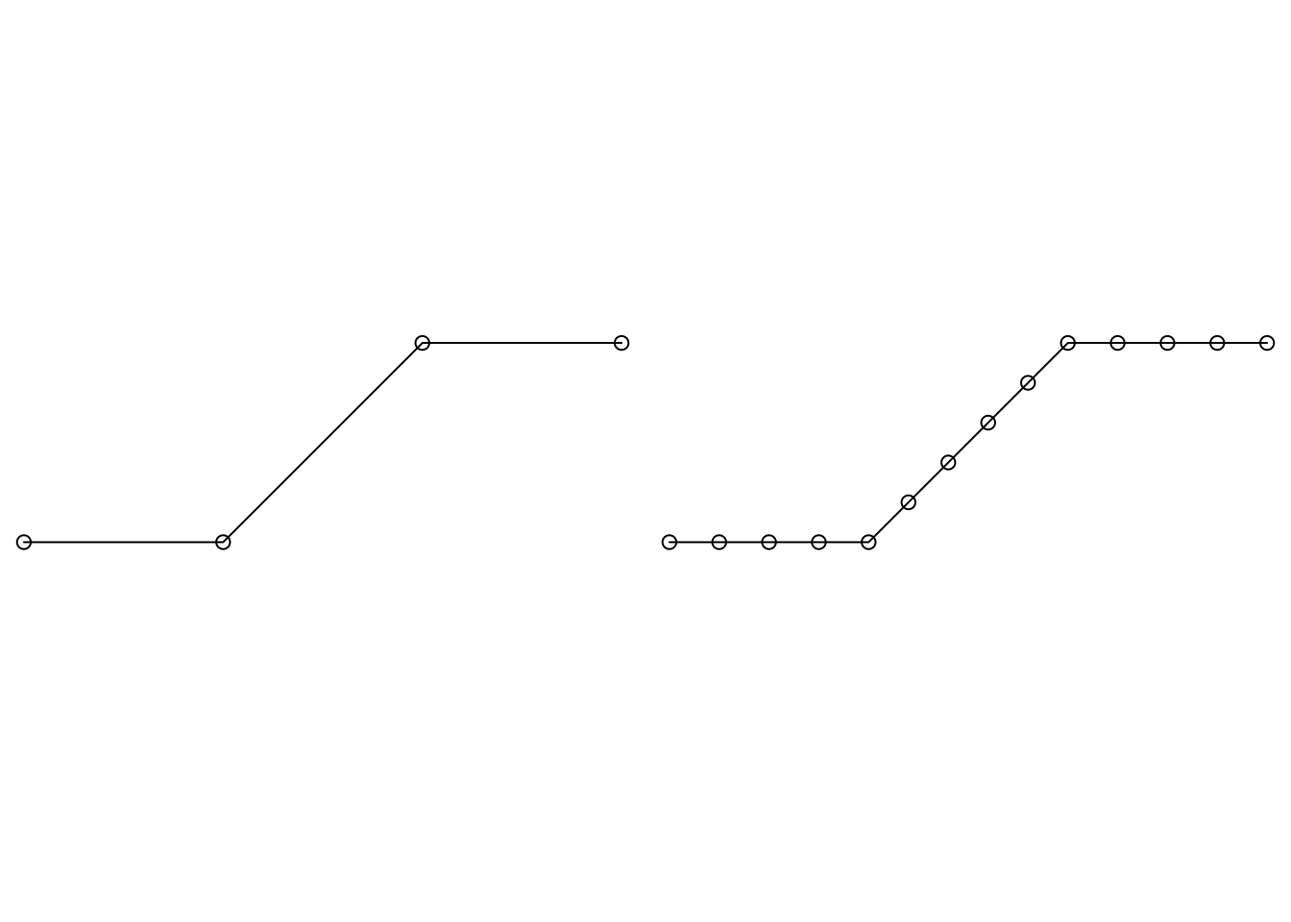
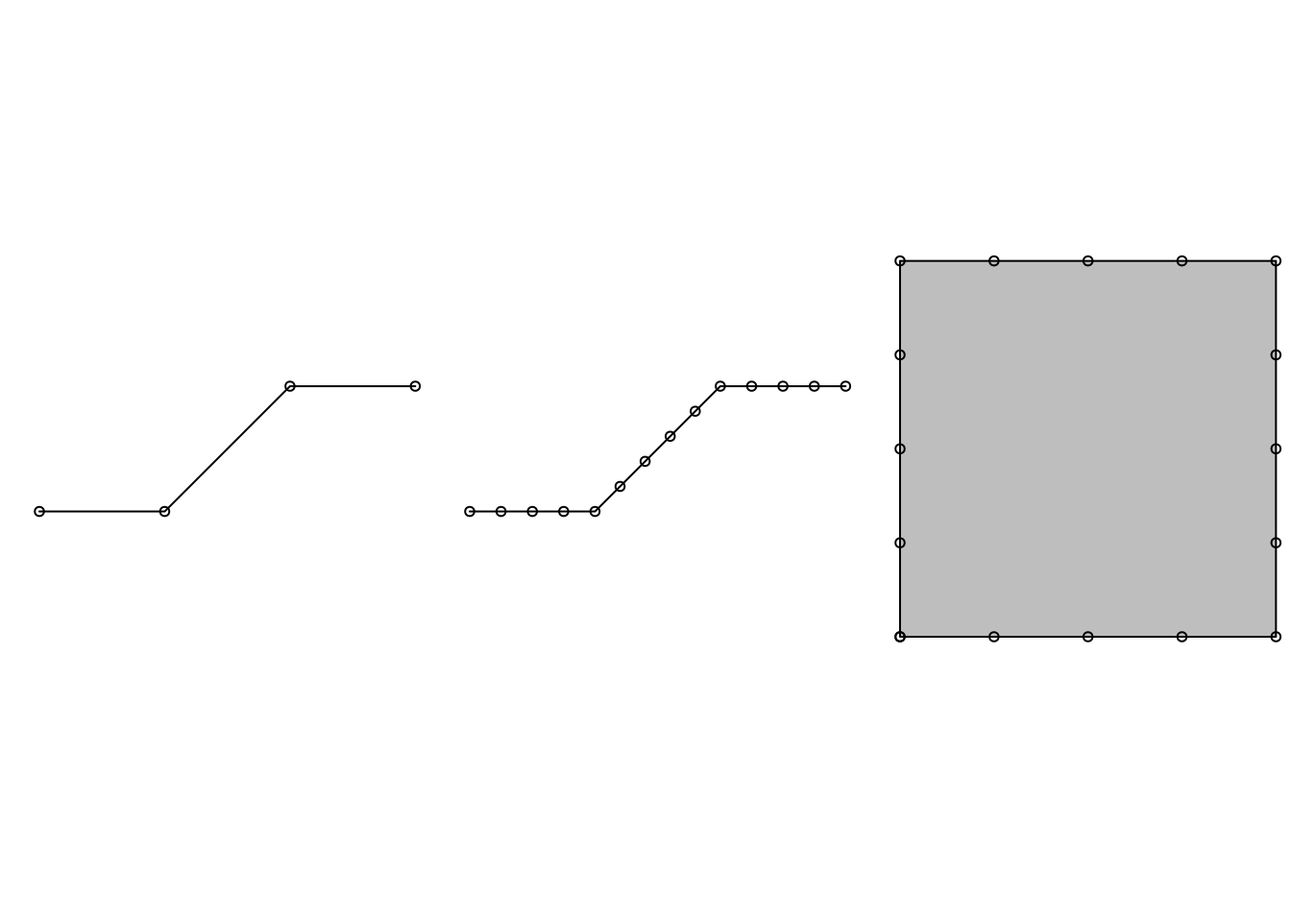
update st_segmentize in sf3

diff --git a/docs/reference/dplyr.html b/docs/reference/dplyr.html
@@ -143,16 +143,20 @@
     
 
     <h2 class="hasAnchor" id="examples"><a class="anchor" href="#examples"></a>Examples</h2>
-    <pre class="examples"><div class='input'><span class='fu'>library</span>(<span class='no'>dplyr</span>)
-<span class='no'>nc</span> <span class='kw'>=</span> <span class='fu'><a href='st_read.html'>st_read</a></span>(<span class='fu'>system.file</span>(<span class='st'>"shape/nc.shp"</span>, <span class='kw'>package</span><span class='kw'>=</span><span class='st'>"sf"</span>), <span class='kw'>crs</span> <span class='kw'>=</span> <span class='fl'>4267</span>)</div><div class='output co'>#&gt; Reading layer `nc&#39; from data source `/home/edzer/git/sfr/inst/shape/nc.shp&#39; using driver `ESRI Shapefile&#39;
+    <pre class="examples"><div class='input'><span class='fu'>library</span>(<span class='no'>dplyr</span>)</div><div class='output co'>#&gt; <span class='message'></span>
+#&gt; <span class='message'>Attaching package: ‘dplyr’</span></div><div class='output co'>#&gt; <span class='message'>The following objects are masked from ‘package:stats’:</span>
+#&gt; <span class='message'></span>
+#&gt; <span class='message'>    filter, lag</span></div><div class='output co'>#&gt; <span class='message'>The following objects are masked from ‘package:base’:</span>
+#&gt; <span class='message'></span>
+#&gt; <span class='message'>    intersect, setdiff, setequal, union</span></div><div class='input'><span class='no'>nc</span> <span class='kw'>=</span> <span class='fu'><a href='st_read.html'>st_read</a></span>(<span class='fu'>system.file</span>(<span class='st'>"shape/nc.shp"</span>, <span class='kw'>package</span><span class='kw'>=</span><span class='st'>"sf"</span>))</div><div class='output co'>#&gt; Reading layer `nc&#39; from data source `/home/edzer/git/sfr/inst/shape/nc.shp&#39; using driver `ESRI Shapefile&#39;
 #&gt; converted into: MULTIPOLYGON
 #&gt; Simple feature collection with 100 features and 14 fields
 #&gt; geometry type:  MULTIPOLYGON
 #&gt; dimension:      XY
 #&gt; bbox:           xmin: -84.32385 ymin: 33.88199 xmax: -75.45698 ymax: 36.58965
 #&gt; epsg (SRID):    4267
-#&gt; proj4string:    +proj=longlat +datum=NAD27 +no_defs</div><div class='input'><span class='no'>nc</span> <span class='kw'>%&gt;%</span> <span class='fu'>filter</span>(<span class='no'>AREA</span> <span class='kw'>&gt;</span> <span class='fl'>.1</span>) <span class='kw'>%&gt;%</span> <span class='fu'><a href='plot.html'>plot</a></span>()</div><img src='dplyr-4.png' alt='' width='540' height='400' /><div class='input'><span class='co'># plot 10 smallest counties in grey:</span>
-<span class='no'>nc</span> <span class='kw'>%&gt;%</span> <span class='fu'><a href='plot.html'>plot</a></span>()</div><div class='input'><span class='no'>nc</span> <span class='kw'>%&gt;%</span> <span class='fu'>arrange</span>(<span class='no'>AREA</span>) <span class='kw'>%&gt;%</span> <span class='fu'>slice</span>(<span class='fl'>1</span>:<span class='fl'>10</span>) <span class='kw'>%&gt;%</span> <span class='fu'><a href='plot.html'>plot</a></span>(<span class='kw'>add</span> <span class='kw'>=</span> <span class='fl'>TRUE</span>, <span class='kw'>col</span> <span class='kw'>=</span> <span class='st'>'grey'</span>)</div><div class='input'><span class='fu'>title</span>(<span class='st'>"the ten counties with smallest area"</span>)</div><img src='dplyr-8.png' alt='' width='540' height='400' /><div class='input'><span class='no'>nc</span>[<span class='fu'>c</span>(<span class='fl'>1</span>:<span class='fl'>100</span>,<span class='fl'>1</span>:<span class='fl'>10</span>),] <span class='kw'>%&gt;%</span> <span class='fu'>distinct</span>() <span class='kw'>%&gt;%</span> <span class='fu'>nrow</span>()</div><div class='output co'>#&gt; [1] 100</div><div class='input'><span class='no'>nc</span>$<span class='no'>area_cl</span> <span class='kw'>=</span> <span class='fu'>cut</span>(<span class='no'>nc</span>$<span class='no'>AREA</span>, <span class='fu'>c</span>(<span class='fl'>0</span>, <span class='fl'>.1</span>, <span class='fl'>.12</span>, <span class='fl'>.15</span>, <span class='fl'>.25</span>))
+#&gt; proj4string:    +proj=longlat +datum=NAD27 +no_defs</div><div class='input'><span class='no'>nc</span> <span class='kw'>%&gt;%</span> <span class='fu'>filter</span>(<span class='no'>AREA</span> <span class='kw'>&gt;</span> <span class='fl'>.1</span>) <span class='kw'>%&gt;%</span> <span class='fu'><a href='plot.html'>plot</a></span>()</div><img src='dplyr-8.png' alt='' width='540' height='400' /><div class='input'><span class='co'># plot 10 smallest counties in grey:</span>
+<span class='no'>nc</span> <span class='kw'>%&gt;%</span> <span class='fu'><a href='plot.html'>plot</a></span>()</div><div class='input'><span class='no'>nc</span> <span class='kw'>%&gt;%</span> <span class='fu'>arrange</span>(<span class='no'>AREA</span>) <span class='kw'>%&gt;%</span> <span class='fu'>slice</span>(<span class='fl'>1</span>:<span class='fl'>10</span>) <span class='kw'>%&gt;%</span> <span class='fu'><a href='plot.html'>plot</a></span>(<span class='kw'>add</span> <span class='kw'>=</span> <span class='fl'>TRUE</span>, <span class='kw'>col</span> <span class='kw'>=</span> <span class='st'>'grey'</span>)</div><div class='input'><span class='fu'>title</span>(<span class='st'>"the ten counties with smallest area"</span>)</div><img src='dplyr-12.png' alt='' width='540' height='400' /><div class='input'><span class='no'>nc</span>[<span class='fu'>c</span>(<span class='fl'>1</span>:<span class='fl'>100</span>,<span class='fl'>1</span>:<span class='fl'>10</span>),] <span class='kw'>%&gt;%</span> <span class='fu'>distinct</span>() <span class='kw'>%&gt;%</span> <span class='fu'>nrow</span>()</div><div class='output co'>#&gt; [1] 100</div><div class='input'><span class='no'>nc</span>$<span class='no'>area_cl</span> <span class='kw'>=</span> <span class='fu'>cut</span>(<span class='no'>nc</span>$<span class='no'>AREA</span>, <span class='fu'>c</span>(<span class='fl'>0</span>, <span class='fl'>.1</span>, <span class='fl'>.12</span>, <span class='fl'>.15</span>, <span class='fl'>.25</span>))
 <span class='no'>nc</span> <span class='kw'>%&gt;%</span> <span class='fu'>group_by</span>(<span class='no'>area_cl</span>) <span class='kw'>%&gt;%</span> <span class='fu'>class</span>()</div><div class='output co'>#&gt; [1] &quot;sf&quot;         &quot;grouped_df&quot; &quot;tbl_df&quot;     &quot;tbl&quot;        &quot;data.frame&quot;</div><div class='input'><span class='no'>nc2</span> <span class='kw'>&lt;-</span> <span class='no'>nc</span> <span class='kw'>%&gt;%</span> <span class='fu'>mutate</span>(<span class='kw'>area10</span> <span class='kw'>=</span> <span class='no'>AREA</span>/<span class='fl'>10</span>)
 <span class='no'>nc</span> <span class='kw'>%&gt;%</span> <span class='fu'>transmute</span>(<span class='kw'>AREA</span> <span class='kw'>=</span> <span class='no'>AREA</span>/<span class='fl'>10</span>, <span class='kw'>geometry</span> <span class='kw'>=</span> <span class='no'>geometry</span>) <span class='kw'>%&gt;%</span> <span class='fu'>class</span>()</div><div class='output co'>#&gt; [1] &quot;sf&quot;         &quot;data.frame&quot;</div><div class='input'><span class='no'>nc</span> <span class='kw'>%&gt;%</span> <span class='fu'>transmute</span>(<span class='kw'>AREA</span> <span class='kw'>=</span> <span class='no'>AREA</span>/<span class='fl'>10</span>) <span class='kw'>%&gt;%</span> <span class='fu'>class</span>()</div><div class='output co'>#&gt; [1] &quot;data.frame&quot;</div><div class='input'><span class='no'>nc</span> <span class='kw'>%&gt;%</span> <span class='fu'>select</span>(<span class='no'>SID74</span>, <span class='no'>SID79</span>) <span class='kw'>%&gt;%</span> <span class='fu'>names</span>()</div><div class='output co'>#&gt; [1] &quot;SID74&quot; &quot;SID79&quot;</div><div class='input'><span class='no'>nc</span> <span class='kw'>%&gt;%</span> <span class='fu'>select</span>(<span class='no'>SID74</span>, <span class='no'>SID79</span>, <span class='no'>geometry</span>) <span class='kw'>%&gt;%</span> <span class='fu'>names</span>()</div><div class='output co'>#&gt; [1] &quot;SID74&quot;    &quot;SID79&quot;    &quot;geometry&quot;</div><div class='input'><span class='no'>nc</span> <span class='kw'>%&gt;%</span> <span class='fu'>select</span>(<span class='no'>SID74</span>, <span class='no'>SID79</span>) <span class='kw'>%&gt;%</span> <span class='fu'>class</span>()</div><div class='output co'>#&gt; [1] &quot;data.frame&quot;</div><div class='input'><span class='no'>nc</span> <span class='kw'>%&gt;%</span> <span class='fu'>select</span>(<span class='no'>SID74</span>, <span class='no'>SID79</span>, <span class='no'>geometry</span>) <span class='kw'>%&gt;%</span> <span class='fu'>class</span>()</div><div class='output co'>#&gt; [1] &quot;sf&quot;         &quot;data.frame&quot;</div><div class='input'><span class='no'>nc2</span> <span class='kw'>&lt;-</span> <span class='no'>nc</span> <span class='kw'>%&gt;%</span> <span class='fu'>rename</span>(<span class='kw'>area</span> <span class='kw'>=</span> <span class='no'>AREA</span>)
 <span class='no'>nc</span> <span class='kw'>%&gt;%</span> <span class='fu'>slice</span>(<span class='fl'>1</span>:<span class='fl'>2</span>)</div><div class='output co'>#&gt; Simple feature collection with 2 features and 15 fields
@@ -188,7 +192,7 @@
 #&gt; 1     (0,0.1] 0.07602857 MULTIPOLYGON(((-77.96073150...
 #&gt; 2  (0.1,0.12] 0.11206667 MULTIPOLYGON(((-84.29103851...
 #&gt; 3 (0.12,0.15] 0.13422727 MULTIPOLYGON(((-76.54427337...
-#&gt; 4 (0.15,0.25] 0.19039286 MULTIPOLYGON(((-76.64704895...</div><div class='input'><span class='no'>nc.g</span> <span class='kw'>%&gt;%</span> <span class='fu'>summarize</span>(<span class='fu'>mean</span>(<span class='no'>AREA</span>)) <span class='kw'>%&gt;%</span> <span class='fu'><a href='plot.html'>plot</a></span>(<span class='kw'>col</span> <span class='kw'>=</span> <span class='fu'>grey</span>(<span class='fl'>3</span>:<span class='fl'>6</span> / <span class='fl'>7</span>))</div><img src='dplyr-32.png' alt='' width='540' height='400' /><div class='input'><span class='fu'>library</span>(<span class='no'>tidyr</span>)
+#&gt; 4 (0.15,0.25] 0.19039286 MULTIPOLYGON(((-76.64704895...</div><div class='input'><span class='no'>nc.g</span> <span class='kw'>%&gt;%</span> <span class='fu'>summarize</span>(<span class='fu'>mean</span>(<span class='no'>AREA</span>)) <span class='kw'>%&gt;%</span> <span class='fu'><a href='plot.html'>plot</a></span>(<span class='kw'>col</span> <span class='kw'>=</span> <span class='fu'>grey</span>(<span class='fl'>3</span>:<span class='fl'>6</span> / <span class='fl'>7</span>))</div><img src='dplyr-36.png' alt='' width='540' height='400' /><div class='input'><span class='fu'>library</span>(<span class='no'>tidyr</span>)
 <span class='no'>nc</span> <span class='kw'>%&gt;%</span> <span class='fu'>select</span>(<span class='no'>SID74</span>, <span class='no'>SID79</span>, <span class='no'>geometry</span>) <span class='kw'>%&gt;%</span> <span class='fu'>gather</span>(<span class='no'>VAR</span>, <span class='no'>SID</span>, -<span class='no'>geometry</span>) <span class='kw'>%&gt;%</span> <span class='fu'>summary</span>()</div><div class='output co'>#&gt;      VAR                 SID                  geometry  
 #&gt;  Length:200         Min.   : 0.000   MULTIPOLYGON :200  
 #&gt;  Class :character   1st Qu.: 2.000   epsg:4267    :  0  

diff --git a/docs/reference/st_read.html b/docs/reference/st_read.html
@@ -163,71 +163,67 @@
 #&gt;  3rd Qu.: 3.850   3rd Qu.: 49.50   3rd Qu.:207.0   3rd Qu.: 674.5  
 #&gt;  Max.   :18.100   Max.   :128.00   Max.   :654.0   Max.   :1839.0  
 #&gt;                                                                    
-#&gt;       elev             dist               om            ffreq          
-#&gt;  Min.   : 5.180   Min.   :0.00000   Min.   : 1.000   Length:155        
-#&gt;  1st Qu.: 7.546   1st Qu.:0.07569   1st Qu.: 5.300   Class :character  
-#&gt;  Median : 8.180   Median :0.21184   Median : 6.900   Mode  :character  
-#&gt;  Mean   : 8.165   Mean   :0.24002   Mean   : 7.478                     
-#&gt;  3rd Qu.: 8.955   3rd Qu.:0.36407   3rd Qu.: 9.000                     
-#&gt;  Max.   :10.520   Max.   :0.88039   Max.   :17.000                     
-#&gt;                                     NA&#39;s   :2                          
-#&gt;      soil               lime             landuse              dist.m      
-#&gt;  Length:155         Length:155         Length:155         Min.   :  10.0  
-#&gt;  Class :character   Class :character   Class :character   1st Qu.:  80.0  
-#&gt;  Mode  :character   Mode  :character   Mode  :character   Median : 270.0  
-#&gt;                                                           Mean   : 290.3  
-#&gt;                                                           3rd Qu.: 450.0  
-#&gt;                                                           Max.   :1000.0  
-#&gt;                                                                           
-#&gt;         wkb_geometry
-#&gt;  POINT        :155  
-#&gt;  epsg:NA      :  0  
-#&gt;  +proj=ster...:  0  
-#&gt;                     
-#&gt;                     
-#&gt;                     
-#&gt;                     </div><div class='input'><span class='co'># nc = st_read(system.file("gpkg/nc.gpkg", package="sf"), "nc.gpkg", crs = 4267)</span>
-<span class='no'>nc</span> <span class='kw'>=</span> <span class='fu'>st_read</span>(<span class='fu'>system.file</span>(<span class='st'>"shape/nc.shp"</span>, <span class='kw'>package</span><span class='kw'>=</span><span class='st'>"sf"</span>), <span class='st'>"nc"</span>, <span class='kw'>crs</span> <span class='kw'>=</span> <span class='fl'>4267</span>)</div><div class='output co'>#&gt; Reading layer `nc&#39; from data source `/home/edzer/git/sfr/inst/shape/nc.shp&#39; using driver `ESRI Shapefile&#39;
+#&gt;       elev             dist               om         ffreq  soil   lime   
+#&gt;  Min.   : 5.180   Min.   :0.00000   Min.   : 1.000   1:84   1:97   0:111  
+#&gt;  1st Qu.: 7.546   1st Qu.:0.07569   1st Qu.: 5.300   2:48   2:46   1: 44  
+#&gt;  Median : 8.180   Median :0.21184   Median : 6.900   3:23   3:12          
+#&gt;  Mean   : 8.165   Mean   :0.24002   Mean   : 7.478                        
+#&gt;  3rd Qu.: 8.955   3rd Qu.:0.36407   3rd Qu.: 9.000                        
+#&gt;  Max.   :10.520   Max.   :0.88039   Max.   :17.000                        
+#&gt;                                     NA&#39;s   :2                             
+#&gt;     landuse       dist.m              wkb_geometry
+#&gt;  W      :50   Min.   :  10.0   POINT        :155  
+#&gt;  Ah     :39   1st Qu.:  80.0   epsg:NA      :  0  
+#&gt;  Am     :22   Median : 270.0   +proj=ster...:  0  
+#&gt;  Fw     :10   Mean   : 290.3                      
+#&gt;  Ab     : 8   3rd Qu.: 450.0                      
+#&gt;  Bw     : 6   Max.   :1000.0                      
+#&gt;  (Other):20                                       </div><div class='input'><span class='co'># nc = st_read(system.file("gpkg/nc.gpkg", package="sf"))</span>
+<span class='no'>nc</span> <span class='kw'>=</span> <span class='fu'>st_read</span>(<span class='fu'>system.file</span>(<span class='st'>"shape/nc.shp"</span>, <span class='kw'>package</span><span class='kw'>=</span><span class='st'>"sf"</span>))</div><div class='output co'>#&gt; Reading layer `nc&#39; from data source `/home/edzer/git/sfr/inst/shape/nc.shp&#39; using driver `ESRI Shapefile&#39;
 #&gt; converted into: MULTIPOLYGON
 #&gt; Simple feature collection with 100 features and 14 fields
 #&gt; geometry type:  MULTIPOLYGON
 #&gt; dimension:      XY
 #&gt; bbox:           xmin: -84.32385 ymin: 33.88199 xmax: -75.45698 ymax: 36.58965
 #&gt; epsg (SRID):    4267
-#&gt; proj4string:    +proj=longlat +datum=NAD27 +no_defs</div><div class='input'><span class='fu'>summary</span>(<span class='no'>nc</span>)</div><div class='output co'>#&gt;       AREA          PERIMETER         CNTY_         CNTY_ID    
-#&gt;  Min.   :0.0420   Min.   :0.999   Min.   :1825   Min.   :1825  
-#&gt;  1st Qu.:0.0910   1st Qu.:1.324   1st Qu.:1902   1st Qu.:1902  
-#&gt;  Median :0.1205   Median :1.609   Median :1982   Median :1982  
-#&gt;  Mean   :0.1263   Mean   :1.673   Mean   :1986   Mean   :1986  
-#&gt;  3rd Qu.:0.1542   3rd Qu.:1.859   3rd Qu.:2067   3rd Qu.:2067  
-#&gt;  Max.   :0.2410   Max.   :3.640   Max.   :2241   Max.   :2241  
-#&gt;      NAME               FIPS               FIPSNO         CRESS_ID     
-#&gt;  Length:100         Length:100         Min.   :37001   Min.   :  1.00  
-#&gt;  Class :character   Class :character   1st Qu.:37050   1st Qu.: 25.75  
-#&gt;  Mode  :character   Mode  :character   Median :37100   Median : 50.50  
-#&gt;                                        Mean   :37100   Mean   : 50.50  
-#&gt;                                        3rd Qu.:37150   3rd Qu.: 75.25  
-#&gt;                                        Max.   :37199   Max.   :100.00  
-#&gt;      BIR74           SID74          NWBIR74           BIR79      
-#&gt;  Min.   :  248   Min.   : 0.00   Min.   :   1.0   Min.   :  319  
-#&gt;  1st Qu.: 1077   1st Qu.: 2.00   1st Qu.: 190.0   1st Qu.: 1336  
-#&gt;  Median : 2180   Median : 4.00   Median : 697.5   Median : 2636  
-#&gt;  Mean   : 3300   Mean   : 6.67   Mean   :1050.8   Mean   : 4224  
-#&gt;  3rd Qu.: 3936   3rd Qu.: 8.25   3rd Qu.:1168.5   3rd Qu.: 4889  
-#&gt;  Max.   :21588   Max.   :44.00   Max.   :8027.0   Max.   :30757  
-#&gt;      SID79          NWBIR79                 geometry  
-#&gt;  Min.   : 0.00   Min.   :    3.0   MULTIPOLYGON :100  
-#&gt;  1st Qu.: 2.00   1st Qu.:  250.5   epsg:4267    :  0  
-#&gt;  Median : 5.00   Median :  874.5   +proj=long...:  0  
-#&gt;  Mean   : 8.36   Mean   : 1352.8                      
-#&gt;  3rd Qu.:10.25   3rd Qu.: 1406.8                      
-#&gt;  Max.   :57.00   Max.   :11631.0                      </div><div class='input'><span class='kw'>if</span> (<span class='fu'>Sys.getenv</span>(<span class='st'>"USER"</span>) <span class='kw'>%in%</span> <span class='fu'>c</span>(<span class='st'>"travis"</span>, <span class='st'>"edzer"</span>)) {
+#&gt; proj4string:    +proj=longlat +datum=NAD27 +no_defs</div><div class='input'><span class='fu'>summary</span>(<span class='no'>nc</span>)</div><div class='output co'>#&gt;       AREA          PERIMETER         CNTY_         CNTY_ID            NAME   
+#&gt;  Min.   :0.0420   Min.   :0.999   Min.   :1825   Min.   :1825   Alamance : 1  
+#&gt;  1st Qu.:0.0910   1st Qu.:1.324   1st Qu.:1902   1st Qu.:1902   Alexander: 1  
+#&gt;  Median :0.1205   Median :1.609   Median :1982   Median :1982   Alleghany: 1  
+#&gt;  Mean   :0.1263   Mean   :1.673   Mean   :1986   Mean   :1986   Anson    : 1  
+#&gt;  3rd Qu.:0.1542   3rd Qu.:1.859   3rd Qu.:2067   3rd Qu.:2067   Ashe     : 1  
+#&gt;  Max.   :0.2410   Max.   :3.640   Max.   :2241   Max.   :2241   Avery    : 1  
+#&gt;                                                                 (Other)  :94  
+#&gt;       FIPS        FIPSNO         CRESS_ID          BIR74           SID74      
+#&gt;  37001  : 1   Min.   :37001   Min.   :  1.00   Min.   :  248   Min.   : 0.00  
+#&gt;  37003  : 1   1st Qu.:37050   1st Qu.: 25.75   1st Qu.: 1077   1st Qu.: 2.00  
+#&gt;  37005  : 1   Median :37100   Median : 50.50   Median : 2180   Median : 4.00  
+#&gt;  37007  : 1   Mean   :37100   Mean   : 50.50   Mean   : 3300   Mean   : 6.67  
+#&gt;  37009  : 1   3rd Qu.:37150   3rd Qu.: 75.25   3rd Qu.: 3936   3rd Qu.: 8.25  
+#&gt;  37011  : 1   Max.   :37199   Max.   :100.00   Max.   :21588   Max.   :44.00  
+#&gt;  (Other):94                                                                   
+#&gt;     NWBIR74           BIR79           SID79          NWBIR79       
+#&gt;  Min.   :   1.0   Min.   :  319   Min.   : 0.00   Min.   :    3.0  
+#&gt;  1st Qu.: 190.0   1st Qu.: 1336   1st Qu.: 2.00   1st Qu.:  250.5  
+#&gt;  Median : 697.5   Median : 2636   Median : 5.00   Median :  874.5  
+#&gt;  Mean   :1050.8   Mean   : 4224   Mean   : 8.36   Mean   : 1352.8  
+#&gt;  3rd Qu.:1168.5   3rd Qu.: 4889   3rd Qu.:10.25   3rd Qu.: 1406.8  
+#&gt;  Max.   :8027.0   Max.   :30757   Max.   :57.00   Max.   :11631.0  
+#&gt;                                                                    
+#&gt;           geometry  
+#&gt;  MULTIPOLYGON :100  
+#&gt;  epsg:4267    :  0  
+#&gt;  +proj=long...:  0  
+#&gt;                     
+#&gt;                     
+#&gt;                     
+#&gt;                     </div><div class='input'><span class='kw'>if</span> (<span class='fu'>Sys.getenv</span>(<span class='st'>"USER"</span>) <span class='kw'>%in%</span> <span class='fu'>c</span>(<span class='st'>"travis"</span>, <span class='st'>"edzer"</span>)) {
   <span class='fu'>library</span>(<span class='no'>RPostgreSQL</span>)
   <span class='no'>conn</span> <span class='kw'>=</span> <span class='fu'>dbConnect</span>(<span class='fu'>PostgreSQL</span>(), <span class='kw'>dbname</span> <span class='kw'>=</span> <span class='st'>"postgis"</span>)
   <span class='no'>x</span> <span class='kw'>=</span> <span class='fu'>st_read_db</span>(<span class='no'>conn</span>, <span class='st'>"meuse"</span>, <span class='kw'>query</span> <span class='kw'>=</span> <span class='st'>"select * from meuse limit 3;"</span>)
   <span class='fu'>print</span>(<span class='fu'><a href='st_crs.html'>st_crs</a></span>(<span class='no'>x</span>)) <span class='co'># SRID resolved by the database, not by GDAL!</span>
   <span class='fu'>dbDisconnect</span>(<span class='no'>conn</span>)
-}</div><div class='output co'>#&gt; $epsg
+}</div><div class='output co'>#&gt; <span class='message'>Loading required package: DBI</span></div><div class='output co'>#&gt; $epsg
 #&gt; [1] NA
 #&gt; 
 #&gt; $proj4string

diff --git a/docs/articles/sf3.html b/docs/articles/sf3.html
@@ -450,7 +450,7 @@ b1 =<span class="st"> </span><span class="kw"><a href="../reference/st.html">st_
 <span class="kw"><a href="../reference/plot.html">plot</a></span>(<span class="kw"><a href="../reference/geos.html">st_sym_difference</a></span>(<span class="kw"><a href="../reference/geos.html">st_union</a></span>(y),<span class="kw"><a href="../reference/geos.html">st_union</a></span>(x)), <span class="dt">col =</span> <span class="st">'lightblue'</span>, <span class="dt">add =</span> <span class="ot">TRUE</span>)
 <span class="kw">title</span>(<span class="st">"sym_difference(x,y)"</span>)</code></pre></div>
 <p><img src="sf3_files/figure-html/unnamed-chunk-30-1.png" width="672"></p>
-<div class="sourceCode"><pre class="sourceCode r"><code class="sourceCode r"><span class="kw">par</span>(<span class="dt">mfrow=</span><span class="kw">c</span>(<span class="dv">1</span>,<span class="dv">2</span>),<span class="dt">mar=</span><span class="kw">c</span>(<span class="dv">1</span>,<span class="dv">0</span>,<span class="dv">0</span>,<span class="dv">0</span>))
+<div class="sourceCode"><pre class="sourceCode r"><code class="sourceCode r"><span class="kw">par</span>(<span class="dt">mfrow=</span><span class="kw">c</span>(<span class="dv">1</span>,<span class="dv">3</span>),<span class="dt">mar=</span><span class="kw">c</span>(<span class="dv">1</span>,<span class="dv">1</span>,<span class="dv">0</span>,<span class="dv">0</span>))
 pts =<span class="st"> </span><span class="kw">rbind</span>(<span class="kw">c</span>(<span class="dv">0</span>,<span class="dv">0</span>),<span class="kw">c</span>(<span class="dv">1</span>,<span class="dv">0</span>),<span class="kw">c</span>(<span class="dv">2</span>,<span class="dv">1</span>),<span class="kw">c</span>(<span class="dv">3</span>,<span class="dv">1</span>))
 ls =<span class="st"> </span><span class="kw"><a href="../reference/st.html">st_linestring</a></span>(pts)
 <span class="kw"><a href="../reference/plot.html">plot</a></span>(ls)
@@ -458,8 +458,13 @@ ls =<span class="st"> </span><span class="kw"><a href="../reference/st.html">st_
 ls.seg =<span class="st"> </span><span class="kw"><a href="../reference/geos.html">st_segmentize</a></span>(ls, <span class="fl">0.3</span>)
 <span class="kw"><a href="../reference/plot.html">plot</a></span>(ls.seg)
 pts =<span class="st"> </span>ls.seg[[<span class="dv">1</span>]] <span class="co"># matrix</span>
-<span class="kw">points</span>(pts)</code></pre></div>
-<p><img src="sf3_files/figure-html/unnamed-chunk-31-1.png" width="672"> Function <code>st_polygonize</code> polygonizes a multilinestring, as far as the points form a closed polygon:</p>
+<span class="kw">points</span>(pts)
+pol =<span class="st"> </span><span class="kw"><a href="../reference/st.html">st_polygon</a></span>(<span class="kw">list</span>(<span class="kw">rbind</span>(<span class="kw">c</span>(<span class="dv">0</span>,<span class="dv">0</span>),<span class="kw">c</span>(<span class="dv">1</span>,<span class="dv">0</span>),<span class="kw">c</span>(<span class="dv">1</span>,<span class="dv">1</span>),<span class="kw">c</span>(<span class="dv">0</span>,<span class="dv">1</span>),<span class="kw">c</span>(<span class="dv">0</span>,<span class="dv">0</span>))))
+pol.seg =<span class="st"> </span><span class="kw"><a href="../reference/geos.html">st_segmentize</a></span>(pol, <span class="fl">0.3</span>)
+<span class="kw"><a href="../reference/plot.html">plot</a></span>(pol.seg, <span class="dt">col =</span> <span class="st">'grey'</span>)
+<span class="kw">points</span>(pol.seg[[<span class="dv">1</span>]][[<span class="dv">1</span>]])</code></pre></div>
+<p><img src="sf3_files/figure-html/unnamed-chunk-31-1.png" width="672"></p>
+<p>Function <code>st_polygonize</code> polygonizes a multilinestring, as far as the points form a closed polygon:</p>
 <div class="sourceCode"><pre class="sourceCode r"><code class="sourceCode r"><span class="kw">par</span>(<span class="dt">mfrow=</span><span class="kw">c</span>(<span class="dv">1</span>,<span class="dv">2</span>),<span class="dt">mar=</span><span class="kw">c</span>(<span class="dv">0</span>,<span class="dv">0</span>,<span class="dv">1</span>,<span class="dv">0</span>))
 mls =<span class="st"> </span><span class="kw"><a href="../reference/st.html">st_multilinestring</a></span>(<span class="kw">list</span>(<span class="kw">matrix</span>(<span class="kw">c</span>(<span class="dv">0</span>,<span class="dv">0</span>,<span class="dv">0</span>,<span class="dv">1</span>,<span class="dv">1</span>,<span class="dv">1</span>,<span class="dv">0</span>,<span class="dv">0</span>),,<span class="dv">2</span>,<span class="dt">byrow=</span><span class="ot">TRUE</span>)))
 x =<span class="st"> </span><span class="kw"><a href="../reference/geos.html">st_polygonize</a></span>(mls)

diff --git a/docs/reference/geos.html b/docs/reference/geos.html
@@ -196,7 +196,7 @@ st_combine(nc)</p>
 <span class='no'>pol3</span> <span class='kw'>=</span> <span class='no'>pol1</span> + <span class='fl'>2</span>
 <span class='fu'>st_relate</span>(<span class='fu'><a href='sfc.html'>st_sfc</a></span>(<span class='no'>p1</span>,<span class='no'>p2</span>), <span class='fu'><a href='sfc.html'>st_sfc</a></span>(<span class='no'>pol1</span>, <span class='no'>pol2</span>, <span class='no'>pol3</span>))</div><div class='output co'>#&gt;      [,1]        [,2]        [,3]       
 #&gt; [1,] &quot;0FFFFF212&quot; &quot;FF0FFF212&quot; &quot;FF0FFF212&quot;
-#&gt; [2,] &quot;FF0FFF212&quot; &quot;FF0FFF212&quot; &quot;0FFFFF212&quot;</div><div class='input'><span class='no'>nc</span> <span class='kw'>=</span> <span class='fu'><a href='st_read.html'>st_read</a></span>(<span class='fu'>system.file</span>(<span class='st'>"shape/nc.shp"</span>, <span class='kw'>package</span><span class='kw'>=</span><span class='st'>"sf"</span>), <span class='st'>"nc"</span>, <span class='kw'>crs</span> <span class='kw'>=</span> <span class='fl'>4267</span>)</div><div class='output co'>#&gt; Reading layer `nc&#39; from data source `/home/edzer/git/sfr/inst/shape/nc.shp&#39; using driver `ESRI Shapefile&#39;
+#&gt; [2,] &quot;FF0FFF212&quot; &quot;FF0FFF212&quot; &quot;0FFFFF212&quot;</div><div class='input'><span class='no'>nc</span> <span class='kw'>=</span> <span class='fu'><a href='st_read.html'>st_read</a></span>(<span class='fu'>system.file</span>(<span class='st'>"shape/nc.shp"</span>, <span class='kw'>package</span><span class='kw'>=</span><span class='st'>"sf"</span>))</div><div class='output co'>#&gt; Reading layer `nc&#39; from data source `/home/edzer/git/sfr/inst/shape/nc.shp&#39; using driver `ESRI Shapefile&#39;
 #&gt; converted into: MULTIPOLYGON
 #&gt; Simple feature collection with 100 features and 14 fields
 #&gt; geometry type:  MULTIPOLYGON

diff --git a/docs/reference/st_write.html b/docs/reference/st_write.html
@@ -164,7 +164,7 @@
 #&gt; options:        OVERWRITE=true 
 #&gt; features:       100
 #&gt; fields:         14
-#&gt; geometry type:  MULTIPOLYGON</div><div class='input'><span class='no'>nc</span> <span class='kw'>=</span> <span class='fu'><a href='st_read.html'>st_read</a></span>(<span class='fu'>system.file</span>(<span class='st'>"shape/nc.shp"</span>, <span class='kw'>package</span><span class='kw'>=</span><span class='st'>"sf"</span>), <span class='st'>"nc"</span>, <span class='kw'>crs</span> <span class='kw'>=</span> <span class='fl'>4267</span>)</div><div class='output co'>#&gt; Reading layer `nc&#39; from data source `/home/edzer/git/sfr/inst/shape/nc.shp&#39; using driver `ESRI Shapefile&#39;
+#&gt; geometry type:  MULTIPOLYGON</div><div class='input'><span class='no'>nc</span> <span class='kw'>=</span> <span class='fu'><a href='st_read.html'>st_read</a></span>(<span class='fu'>system.file</span>(<span class='st'>"shape/nc.shp"</span>, <span class='kw'>package</span><span class='kw'>=</span><span class='st'>"sf"</span>))</div><div class='output co'>#&gt; Reading layer `nc&#39; from data source `/home/edzer/git/sfr/inst/shape/nc.shp&#39; using driver `ESRI Shapefile&#39;
 #&gt; converted into: MULTIPOLYGON
 #&gt; Simple feature collection with 100 features and 14 fields
 #&gt; geometry type:  MULTIPOLYGON

diff --git a/docs/reference/st_viewport.html b/docs/reference/st_viewport.html
@@ -107,7 +107,7 @@
 
     <h2 class="hasAnchor" id="examples"><a class="anchor" href="#examples"></a>Examples</h2>
     <pre class="examples"><div class='input'><span class='fu'>library</span>(<span class='no'>grid</span>)
-<span class='no'>nc</span> <span class='kw'>=</span> <span class='fu'><a href='st_read.html'>st_read</a></span>(<span class='fu'>system.file</span>(<span class='st'>"shape/nc.shp"</span>, <span class='kw'>package</span><span class='kw'>=</span><span class='st'>"sf"</span>), <span class='st'>"nc"</span>, <span class='kw'>crs</span> <span class='kw'>=</span> <span class='fl'>4267</span>)</div><div class='output co'>#&gt; Reading layer `nc&#39; from data source `/home/edzer/git/sfr/inst/shape/nc.shp&#39; using driver `ESRI Shapefile&#39;
+<span class='no'>nc</span> <span class='kw'>=</span> <span class='fu'><a href='st_read.html'>st_read</a></span>(<span class='fu'>system.file</span>(<span class='st'>"shape/nc.shp"</span>, <span class='kw'>package</span><span class='kw'>=</span><span class='st'>"sf"</span>))</div><div class='output co'>#&gt; Reading layer `nc&#39; from data source `/home/edzer/git/sfr/inst/shape/nc.shp&#39; using driver `ESRI Shapefile&#39;
 #&gt; converted into: MULTIPOLYGON
 #&gt; Simple feature collection with 100 features and 14 fields
 #&gt; geometry type:  MULTIPOLYGON

diff --git a/docs/reference/st_as_sf.html b/docs/reference/st_as_sf.html
@@ -200,7 +200,10 @@
   <span class='fu'>library</span>(<span class='no'>sf</span>)
   <span class='no'>a</span> <span class='kw'>=</span> <span class='fu'>st_as_sf</span>(<span class='no'>r</span>)
   <span class='fu'>summary</span>(<span class='no'>a</span>)
-}</div><div class='output co'>#&gt;          geometry
+}</div><div class='output co'>#&gt; <span class='message'>Loading required package: rgeos</span></div><div class='output co'>#&gt; <span class='message'>rgeos version: 0.3-21, (SVN revision 540)</span>
+#&gt; <span class='message'> GEOS runtime version: 3.5.0-CAPI-1.9.0 r4084 </span>
+#&gt; <span class='message'> Linking to sp version: 1.2-3 </span>
+#&gt; <span class='message'> Polygon checking: TRUE </span></div><div class='output co'>#&gt;          geometry
 #&gt;  MULTIPOLYGON:2  
 #&gt;  epsg:NA     :0  </div><div class='input'><span class='fu'>demo</span>(<span class='no'>meuse</span>, <span class='kw'>ask</span> <span class='kw'>=</span> <span class='fl'>FALSE</span>, <span class='kw'>echo</span> <span class='kw'>=</span> <span class='fl'>FALSE</span>)
 <span class='fu'>summary</span>(<span class='fu'>st_as_sf</span>(<span class='no'>meuse</span>))</div><div class='output co'>#&gt;     cadmium           copper            lead            zinc       
